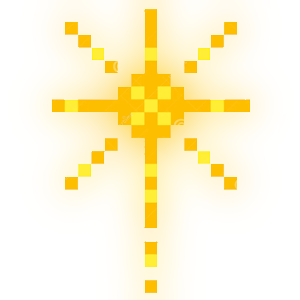
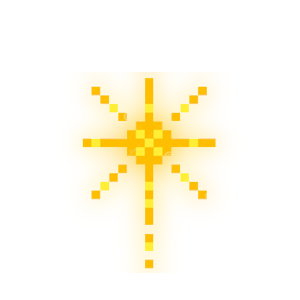
remove hope name, decrease hope asset size, use monster id for identity

Changed region(s): [[0.15, 0.0, 0.87, 1.0]]

diff --git a/DungeonGame.UI/src/props/Tile.tsx b/DungeonGame.UI/src/props/Tile.tsx
@@ -9,6 +9,7 @@ interface TileProps {
     ghostTileType?: TileType;
     tileType: TileType;
     name: string;
+    monsterId?: string;
     heroCanWalk: boolean;
     heroCanAttack: boolean;
     health?: number;
@@ -21,11 +22,11 @@ interface TileProps {
     danger?: boolean;
 }
 
-export const Tile = ({ x, y, ghostTileType, tileType, name, heroCanWalk, heroCanAttack, health, maxHealth, 
+export const Tile = ({ x, y, ghostTileType, tileType, name, monsterId, heroCanWalk, heroCanAttack, health, maxHealth, 
     isMonster, isAttacking, attackId, angleToTarget, pulse, danger }: TileProps) => {
     // Damage display logic
     const [isAnimatingDamage, setIsAnimatingDamage] = useState(false);
-    const identity = (name.length > 0) ? (tileType + name) : undefined;
+    const identity = (isMonster || tileType === "Hero") ? (tileType + (isMonster? monsterId : '')) : undefined;
     const prevIdentityRef = useRef<string | undefined>(identity);
     const prevHealthRef = useRef<number | undefined>(health);
 

diff --git a/DungeonGame.UI/src/App.tsx b/DungeonGame.UI/src/App.tsx
@@ -85,6 +85,7 @@ function App() {
           ghostTileType={ghostTileType}
           tileType={tileData.tileType}
           name={tileData.name ?? ''}
+          monsterId={tileData.monsterId}
           heroCanWalk={state.ViewData?.HeroCanWalkPositions?.some(p => p.X == x && p.Y == y) ?? false}
           heroCanAttack={state.ViewData?.HeroCanAttackPositions?.some(p => p.X == x && p.Y == y) ?? false}
           health={tileData.health}

diff --git a/DungeonGame.Engine/DungeonGame.Engine/GameContent/MonsterTemplates.cs b/DungeonGame.Engine/DungeonGame.Engine/GameContent/MonsterTemplates.cs
@@ -117,6 +117,7 @@ namespace DungeonGame.Engine.GameContent
                     monster.SetStat(SkillType.AttackRange, 2);
                     break;
                 case MonsterType.Hope:
+                    monster.Name = ""; // don't have name
                     monster.Health = 1;
                     monster.MaxHealth = monster.Health;
                     monster.SetStat(SkillType.Movement, 2);
